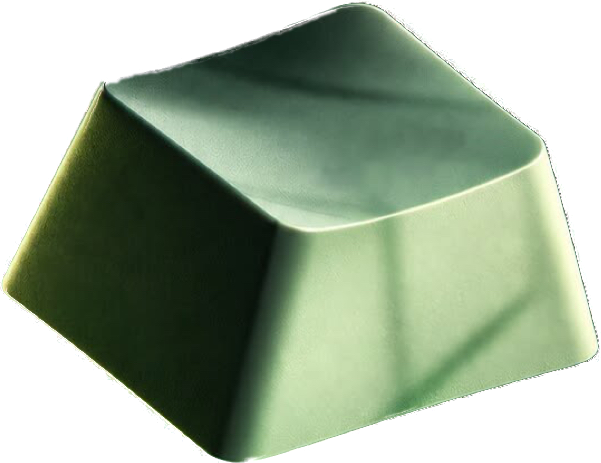
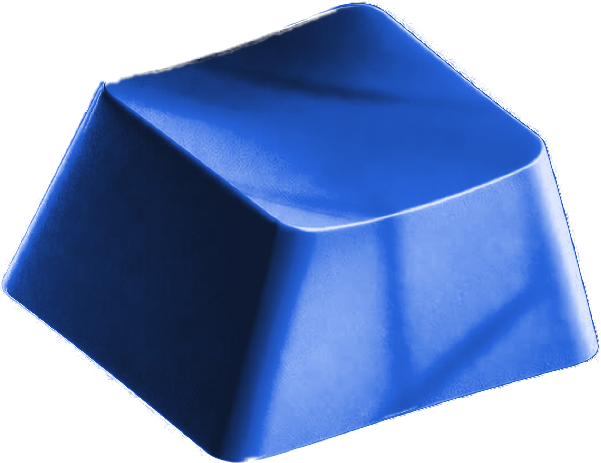
Design : harmonisation des couleurs et finitions
- Interrupteur de la page Réalisations aux couleurs du site : touche bleu
  Kov, boîtier et base gris acier (fini le vert qui détonnait) ; trait
  parasite sous le boîtier retiré ; en-tête plus compact sur mobile.
- Boutons : relief et lueur bleue au survol, enfoncement au clic.
- Appel à l'action final : lueur bleue et filet lumineux, il se distingue
  enfin des bandes sombres voisines.
- Numéros d'étapes en Geist Mono sable, comme le questionnaire de devis.
- Sélection de texte bleue, barre de défilement sombre, liens des pages
  légales en bleu ; collision de noms d'animation corrigée.

Claude-Session: https://claude.ai/code/session_01MsBrykQRF2CJRb66r7PJCR

diff --git a/src/styles/global.css b/src/styles/global.css
@@ -53,6 +53,8 @@ h1, h2, h3 { margin: 0; font-weight: 650; letter-spacing: -0.025em; line-height:
 p { margin: 0; }
 ul, ol { margin: 0; }
 :focus-visible { outline: 3px solid var(--bleu-clair); outline-offset: 3px; border-radius: 2px; }
+::selection { background: rgba(40, 100, 220, .55); color: #fff; }
+html { scrollbar-color: var(--line-strong) var(--graphite); }
 .sr-only { position: absolute; width: 1px; height: 1px; padding: 0; margin: -1px; overflow: hidden; clip: rect(0 0 0 0); white-space: nowrap; border: 0; }
 .skip { position: absolute; left: -9999px; top: 12px; z-index: 100; background: var(--anthracite); color: var(--on-dark); padding: 10px 16px; border-radius: 6px; }
 .skip:focus { left: 12px; }
@@ -75,12 +77,14 @@ ul, ol { margin: 0; }
   min-height: 48px; padding: .75em 1.35em; border-radius: 6px;
   font: inherit; font-size: 1rem; font-weight: 650; line-height: 1.2; text-decoration: none;
   border: 1.5px solid transparent; cursor: pointer;
-  transition: background-color .15s ease, border-color .15s ease, color .15s ease;
+  transition: background-color .15s ease, border-color .15s ease, color .15s ease, box-shadow .25s ease, transform .2s cubic-bezier(.2, .7, .2, 1);
 }
-.btn-primary { background: var(--bleu); color: #fff; }
-.btn-primary:hover { background: var(--bleu-fonce); }
+.btn:active { transform: translateY(1px) scale(.98); transition-duration: .08s; }
+.btn-primary { background: var(--bleu); color: #fff; box-shadow: 0 1px 0 rgba(255, 255, 255, .12) inset, 0 6px 18px -8px rgba(40, 100, 220, .7); }
+.btn-primary:hover { background: var(--bleu-fonce); box-shadow: 0 1px 0 rgba(255, 255, 255, .12) inset, 0 10px 26px -8px rgba(40, 100, 220, .9); transform: translateY(-1px); }
 .btn-ghost { border-color: var(--line-strong); color: var(--text); background: transparent; }
-.btn-ghost:hover { border-color: var(--ink); }
+.btn-ghost:hover { border-color: var(--ink); background: rgba(247, 248, 246, .04); }
+@media (prefers-reduced-motion: reduce) { .btn, .btn:hover, .btn:active { transform: none; } }
 .section--dark .btn-ghost, .cta-final .btn-ghost { border-color: #4A535C; color: var(--on-dark); }
 .section--dark .btn-ghost:hover, .cta-final .btn-ghost:hover { border-color: var(--on-dark); }
 .btn[disabled] { opacity: .6; cursor: progress; }
@@ -237,10 +241,10 @@ ul, ol { margin: 0; }
 .g-frame.imprime.attente .car-btn { opacity: 0; }
 .g-frame.imprime.en-cours .car-piste { animation: kov-revele 3.2s cubic-bezier(.45, .05, .35, 1) both; }
 .g-frame.imprime.en-cours .car-btn { opacity: 0; }
-.g-frame.imprime.en-cours .tete-impression { opacity: 1; animation: kov-monte 3.2s cubic-bezier(.45, .05, .35, 1) both; }
+.g-frame.imprime.en-cours .tete-impression { opacity: 1; animation: kov-tete-monte 3.2s cubic-bezier(.45, .05, .35, 1) both; }
 .g-frame.imprime.en-cours .chariot { animation: kov-balaie .45s ease-in-out infinite alternate; }
 @keyframes kov-revele { from { clip-path: inset(100% 0 0 0); } to { clip-path: inset(0 0 0 0); } }
-@keyframes kov-monte { from { bottom: 0; } to { bottom: 100%; } }
+@keyframes kov-tete-monte { from { bottom: 0; } to { bottom: 100%; } }
 @keyframes kov-balaie { from { left: 4%; } to { left: calc(96% - 46px); } }
 
 .filters { display: flex; flex-wrap: wrap; gap: 8px; margin-bottom: 32px; }
@@ -250,7 +254,7 @@ ul, ol { margin: 0; }
 /* ---------- Étapes ---------- */
 .steps { display: grid; grid-template-columns: repeat(4, minmax(0, 1fr)); gap: clamp(20px, 3vw, 40px); list-style: none; padding: 0; }
 .step { border-top: 2px solid var(--ink); padding-top: 18px; }
-.step-num { display: block; font-size: .95rem; font-weight: 700; font-variant-numeric: tabular-nums; }
+.step-num { display: block; font-family: 'Geist Mono', ui-monospace, monospace; font-size: .9rem; letter-spacing: .12em; color: var(--atelier); font-variant-numeric: tabular-nums; font-weight: 400; }
 .step svg { display: block; width: 56px; height: 56px; margin: 20px 0 18px; color: var(--ink); }
 .step h3 { font-size: 1.15rem; margin-bottom: 8px; }
 .step p { color: var(--text-2); font-size: .98rem; }
@@ -279,7 +283,9 @@ ul, ol { margin: 0; }
 @media (max-width: 960px) { .pros-grid { grid-template-columns: 1fr; } }
 
 /* ---------- Appel à l'action final ---------- */
-.cta-final { background: var(--surface-2); color: var(--on-dark); padding: clamp(64px, 8vw, 104px) 0; }
+.cta-final { position: relative; overflow: hidden; color: var(--on-dark); padding: clamp(72px, 9vw, 120px) 0;
+  background: radial-gradient(60% 120% at 85% 110%, rgba(40, 100, 220, .28), transparent 60%), radial-gradient(40% 80% at 0% 0%, rgba(143, 176, 245, .08), transparent 70%), var(--surface-2); }
+.cta-final::before { content: ""; position: absolute; left: 0; right: 0; top: 0; height: 1px; background: linear-gradient(90deg, transparent, rgba(143, 176, 245, .55), transparent); }
 .cta-final h2 { font-size: clamp(2rem, 4.4vw, 3.4rem); max-width: 18em; }
 .cta-final p { color: var(--on-dark-2); margin-top: 18px; max-width: 36em; font-size: 1.1rem; }
 .cta-final .hero-actions { margin-top: 32px; }
@@ -308,6 +314,7 @@ ul, ol { margin: 0; }
 .prose p, .prose li { color: var(--text-2); }
 .prose p + p { margin-top: 12px; }
 .prose ul { padding-left: 1.2em; display: grid; gap: 6px; }
+.prose a { color: var(--bleu-clair); text-underline-offset: 3px; }
 .todo { background: #FFF6D6; color: #6B4E00; border-radius: 3px; padding: 0 4px; font-weight: 600; }
 
 /* ---------- Formulaire de devis ---------- */
@@ -620,7 +627,7 @@ ul, ol { margin: 0; }
    touche 601 × 463 (centre x 570) · boîtier 456 × 428 (centre x 557) · base 503 × 423 (centre x 570). */
 .page-head--switch { text-align: center; overflow: hidden; padding-top: clamp(24px, 4vw, 48px); }
 .page-head--switch .lead { margin-inline: auto; max-width: 34rem; }
-.sw { --u: clamp(.36px, .09vw + .1px, .5px); display: grid; justify-items: center; }
+.sw { --u: clamp(.32px, .09vw + .08px, .5px); display: grid; justify-items: center; }
 .sw-piece { position: relative; isolation: isolate; pointer-events: none; }
 .sw-piece img { display: block; width: 100%; height: auto; filter: drop-shadow(0 18px 24px rgba(0, 0, 0, .45)); }
 .sw-touche { width: calc(601 * var(--u)); margin-bottom: 6px; animation: sw-touche 6s ease-in-out infinite; }
